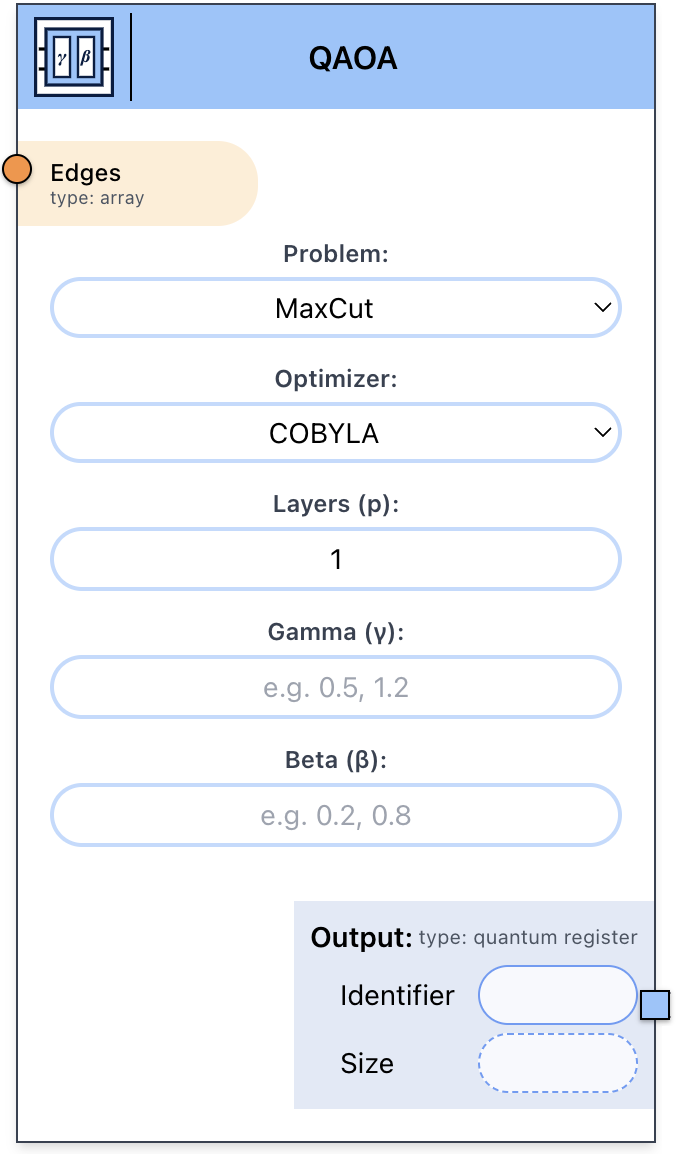
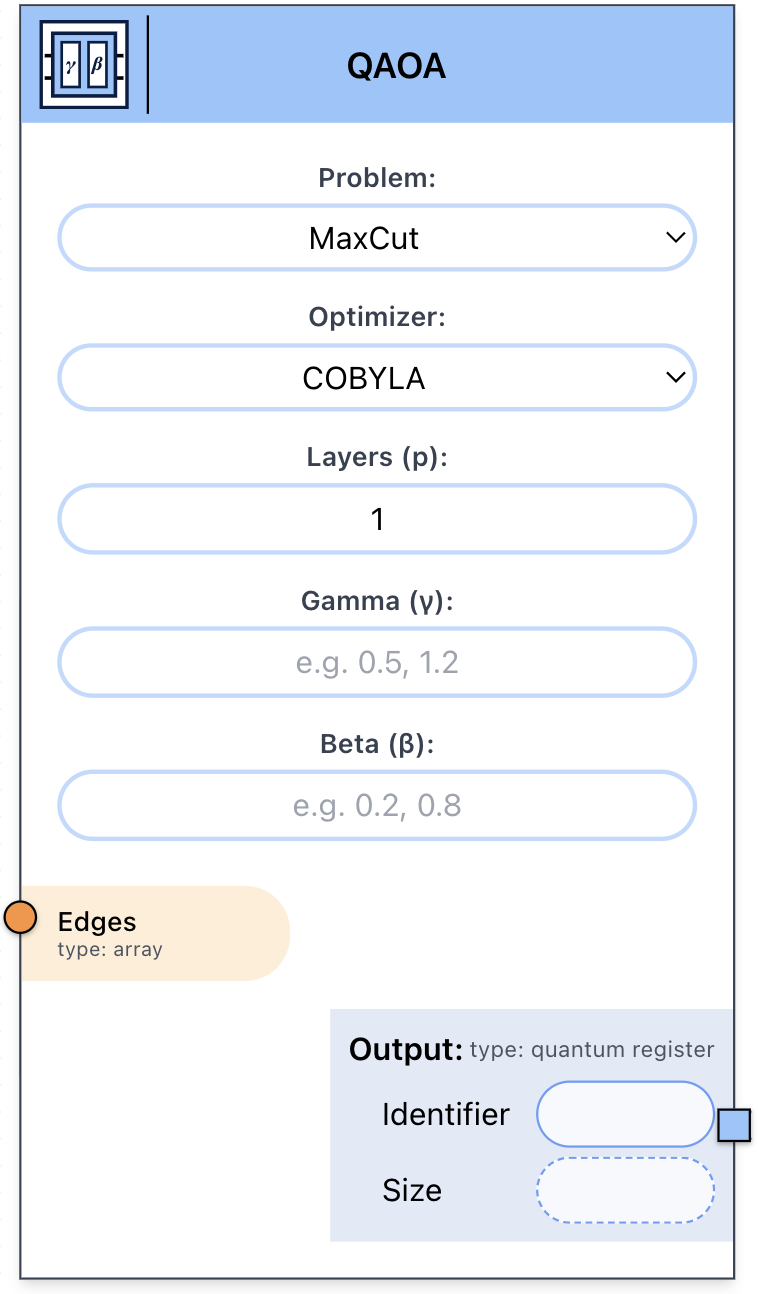
QAOA UI fix

diff --git a/src/components/nodes/qaoaNode.tsx b/src/components/nodes/qaoaNode.tsx
@@ -108,38 +108,10 @@ export const QAOANode = memo((node: Node) => {
           </div>
 
           {/* CONFIGURATION BODY */}
-          <div className="px-4 py-2 mt-2 flex flex-col gap-3">
-
-            {/* LEFT PORT: Classical Array Input (Graph Edges) */}
-            <div className="absolute left-0">
-                <div
-                className="relative p-2"
-                style={{
-                    backgroundColor: classicalConstructColor || "#fed7aa", 
-                    width: '120px',
-                    display: 'flex',
-                    alignItems: 'center',
-                    justifyContent: 'flex-start',
-                    borderTopRightRadius: '20px',
-                    borderBottomRightRadius: '20px',
-                }}
-                >
-                <Handle
-                    type="target"
-                    id={`classicalHandleQAOAInput0${id}`}
-                    position={Position.Left}
-                    className="z-10 classical-circle-port-operation !bg-orange-400 !border-black -left-[6px]"
-                    style={{ width: 12, height: 12 }}
-                />
-                <div className="flex flex-col items-start w-full leading-tight pl-2">
-                    <span className="text-black text-[12px] font-medium">Edges</span>
-                    <span className="text-gray-600 text-[9px]">type: array</span>
-                </div>
-                </div>
-            </div>
+          <div className="px-4 py-2 mt-1 flex flex-col gap-3">
             
             {/* Problem Dropdown */}
-            <div className="mt-12 flex flex-col items-center justify-center w-full">
+            <div className="mt-1 flex flex-col items-center justify-center w-full">
               <label className="text-xs font-semibold text-gray-700 text-center mb-1">Problem:</label>
               <select
                 className="w-full p-1 text-sm text-center text-black border-2 border-blue-200 rounded-full outline-none focus:border-blue-400 transition-colors"
@@ -226,6 +198,35 @@ export const QAOANode = memo((node: Node) => {
                   handleChange("beta", e.target.value);
                 }}
               />
+            </div>
+
+            {/* CLASSICAL REGISTER INPUT PORT (Moved below configuration blocks) */}
+            <div className="relative left-0 w-full flex justify-start mt-2">
+              <div
+                className="relative p-2"
+                style={{
+                  backgroundColor: classicalConstructColor || "#fed7aa", 
+                  width: '120px',
+                  display: 'flex',
+                  alignItems: 'center',
+                  justifyContent: 'flex-start',
+                  borderTopRightRadius: '20px',
+                  borderBottomRightRadius: '20px',
+                  marginLeft: '-16px' // counteracts parent wrapper's px-4 alignment
+                }}
+              >
+                <Handle
+                  type="target"
+                  id={`classicalHandleQAOAInput0${id}`}
+                  position={Position.Left}
+                  className="z-10 classical-circle-port-operation !bg-orange-400 !border-black -left-[6px]"
+                  style={{ width: 12, height: 12 }}
+                />
+                <div className="flex flex-col items-start w-full leading-tight pl-2">
+                  <span className="text-black text-[12px] font-medium">Edges</span>
+                  <span className="text-gray-600 text-[9px]">type: array</span>
+                </div>
+              </div>
             </div>
           </div>
 
